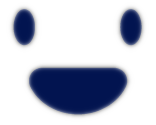
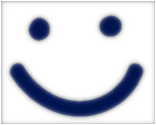
adding new faces

diff --git a/scene/main.js b/scene/main.js
@@ -118,6 +118,7 @@ class Personaje extends Phaser.GameObjects.Container {
       scene.add.circle(0, 0, 80, _color).setScale(0.6, 1),
       scene.add.image(0, -20, "face1").setScale(0.5),
     ]);
+    this.sprite.face = this.sprite.list[1];
 
     this.add([this.sprite]);
     this.setSize(80, 80);
@@ -238,6 +239,19 @@ class Personaje extends Phaser.GameObjects.Container {
       this.laughing_animation();
     }
   }
+  updateFace() {
+    let t_name = "face1";
+    if (this.laughlevel > 20) {
+      t_name = "face2";
+    }
+    if (this.laughlevel > 50) {
+      t_name = "face3";
+    }
+    if (this.laughlevel > 70) {
+      t_name = "face4";
+    }
+    this.sprite.face.setTexture(t_name);
+  }
   update() {
     if (this.laughlevel > 0) {
       this.reduceLaughLevel();
@@ -245,6 +259,7 @@ class Personaje extends Phaser.GameObjects.Container {
         this.doShotLaugh();
       }
     }
+    this.updateFace();
   }
 }
 
@@ -379,11 +394,10 @@ export default class Main extends Phaser.Scene {
     let total = this.level * 4;
     let camscale = 2 / this.level;
     this.cameras.main.zoomTo(camscale, 300);
-    let dist = 180 * this.level;
-
+    let dist = 130 * this.level;
     for (let i = 0; i < total; i++) {
       let angle = Phaser.Math.Angle.RandomDegrees();
-      let vel = this.physics.velocityFromAngle(angle, dist);
+      let vel = this.physics.velocityFromAngle(angle, random(dist-20,dist+20));
       this.addPersonaje(this.center.x + vel.x, this.center.y + vel.y);
     }
   }

diff --git a/scene/preload.js b/scene/preload.js
@@ -21,6 +21,9 @@ export default class Preloader extends Phaser.Scene {
     //////// audios ---|
 
     this.load.image("face1", "assets/face1.png");
+    this.load.image("face2", "assets/face2.png");
+    this.load.image("face3", "assets/face3.png");
+    this.load.image("face4", "assets/face4.png");
   }
   waitForWebFont() {
     return new Promise((resolve) => {
